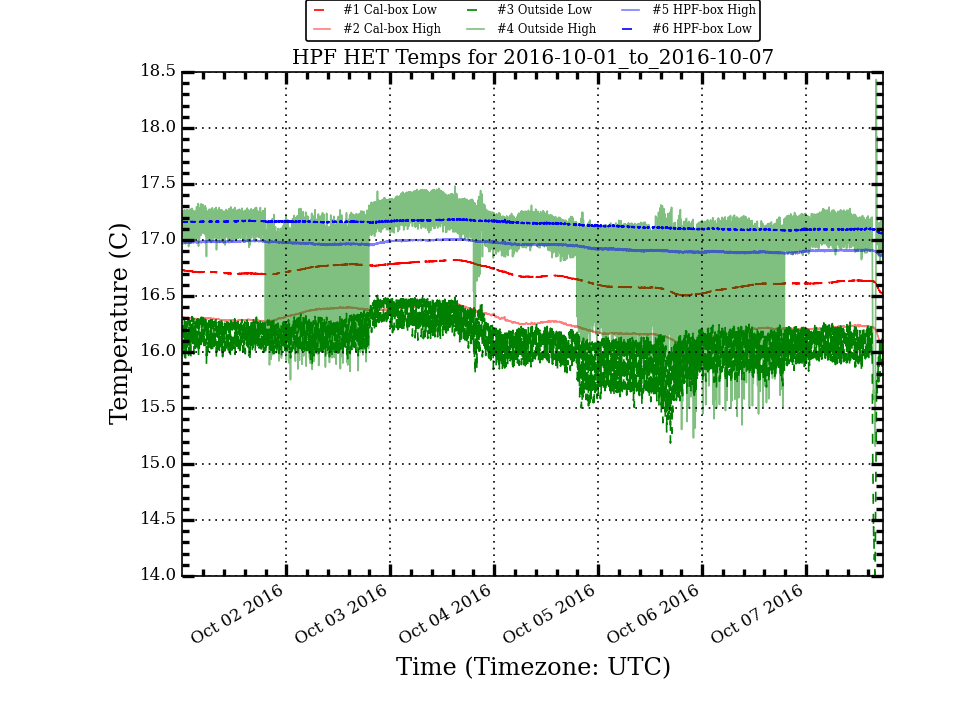
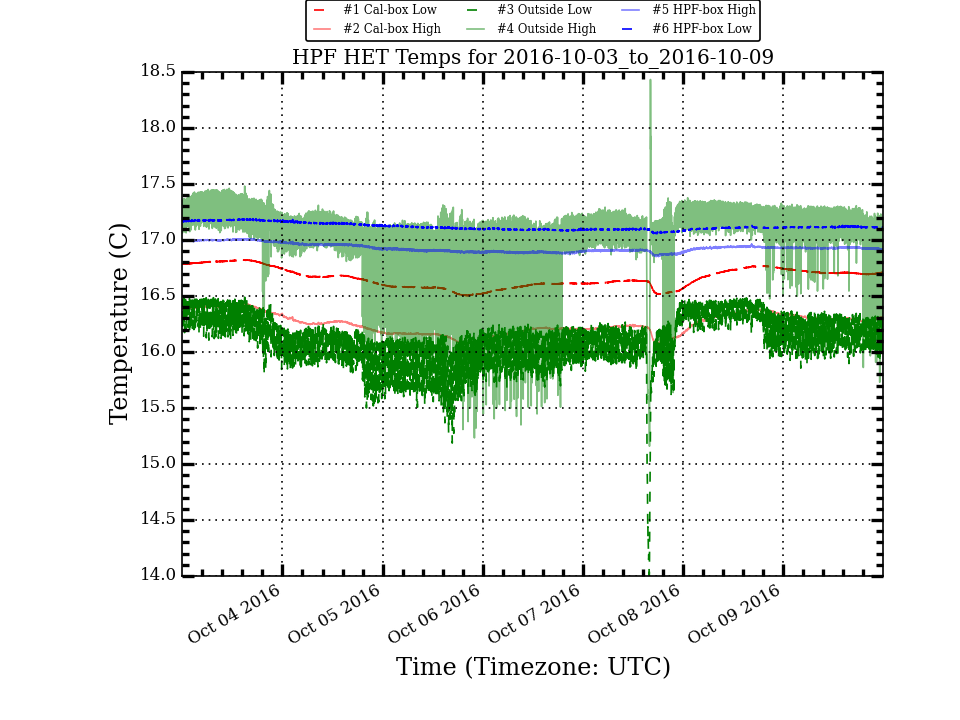
Update HPF Temp Plots

diff --git a/research/hpf_temps/plots/LakeShoreLogTotal_month_stats.html b/research/hpf_temps/plots/LakeShoreLogTotal_month_stats.html
@@ -10,56 +10,56 @@
  </TR>
  <TR>
   <TD>Cal_Low</TD>
-  <TD>16.591</TD>
-  <TD>0.093</TD>
-  <TD>16.567</TD>
+  <TD>16.596</TD>
+  <TD>0.098</TD>
+  <TD>16.568</TD>
   <TD>16.822</TD>
   <TD>16.091</TD>
   <TD>0.731</TD>
  </TR>
  <TR>
   <TD>Cal_High</TD>
-  <TD>16.172</TD>
-  <TD>0.106</TD>
-  <TD>16.149</TD>
+  <TD>16.179</TD>
+  <TD>0.111</TD>
+  <TD>16.151</TD>
   <TD>16.430</TD>
   <TD>15.553</TD>
   <TD>0.877</TD>
  </TR>
  <TR>
   <TD>Out_Low</TD>
-  <TD>15.910</TD>
-  <TD>0.312</TD>
-  <TD>15.916</TD>
+  <TD>15.942</TD>
+  <TD>0.319</TD>
+  <TD>15.953</TD>
   <TD>17.976</TD>
   <TD>12.994</TD>
   <TD>4.982</TD>
  </TR>
  <TR>
   <TD>Out_High</TD>
-  <TD>16.765</TD>
-  <TD>0.540</TD>
-  <TD>16.944</TD>
+  <TD>16.797</TD>
+  <TD>0.532</TD>
+  <TD>16.974</TD>
   <TD>24.550</TD>
   <TD>14.748</TD>
   <TD>9.802</TD>
  </TR>
  <TR>
   <TD>HPF_High</TD>
-  <TD>17.038</TD>
-  <TD>0.100</TD>
-  <TD>17.001</TD>
+  <TD>17.017</TD>
+  <TD>0.091</TD>
+  <TD>16.989</TD>
   <TD>17.291</TD>
   <TD>16.851</TD>
   <TD>0.440</TD>
  </TR>
  <TR>
   <TD>HPF_Low</TD>
-  <TD>17.230</TD>
-  <TD>0.099</TD>
-  <TD>17.192</TD>
-  <TD>17.462</TD>
+  <TD>17.208</TD>
+  <TD>0.089</TD>
+  <TD>17.173</TD>
+  <TD>17.428</TD>
   <TD>17.053</TD>
-  <TD>0.409</TD>
+  <TD>0.375</TD>
  </TR>
 </TABLE>

diff --git a/research/hpf_temps/plots/LakeShoreLogTotal_week_stats.html b/research/hpf_temps/plots/LakeShoreLogTotal_week_stats.html
@@ -10,54 +10,54 @@
  </TR>
  <TR>
   <TD>Cal_Low</TD>
-  <TD>16.674</TD>
-  <TD>0.088</TD>
-  <TD>16.679</TD>
+  <TD>16.663</TD>
+  <TD>0.086</TD>
+  <TD>16.668</TD>
   <TD>16.822</TD>
   <TD>16.503</TD>
   <TD>0.319</TD>
  </TR>
  <TR>
   <TD>Cal_High</TD>
-  <TD>16.266</TD>
-  <TD>0.094</TD>
-  <TD>16.264</TD>
+  <TD>16.255</TD>
+  <TD>0.092</TD>
+  <TD>16.251</TD>
   <TD>16.430</TD>
   <TD>16.069</TD>
   <TD>0.361</TD>
  </TR>
  <TR>
   <TD>Out_Low</TD>
-  <TD>16.084</TD>
-  <TD>0.219</TD>
-  <TD>16.104</TD>
-  <TD>16.507</TD>
+  <TD>16.111</TD>
+  <TD>0.235</TD>
+  <TD>16.124</TD>
+  <TD>16.499</TD>
   <TD>14.006</TD>
-  <TD>2.501</TD>
+  <TD>2.493</TD>
  </TR>
  <TR>
   <TD>Out_High</TD>
-  <TD>16.910</TD>
-  <TD>0.391</TD>
-  <TD>17.039</TD>
+  <TD>16.975</TD>
+  <TD>0.367</TD>
+  <TD>17.088</TD>
   <TD>18.433</TD>
   <TD>15.159</TD>
   <TD>3.274</TD>
  </TR>
  <TR>
   <TD>HPF_High</TD>
-  <TD>16.945</TD>
-  <TD>0.041</TD>
-  <TD>16.959</TD>
+  <TD>16.929</TD>
+  <TD>0.036</TD>
+  <TD>16.926</TD>
   <TD>17.011</TD>
   <TD>16.851</TD>
   <TD>0.160</TD>
  </TR>
  <TR>
   <TD>HPF_Low</TD>
-  <TD>17.137</TD>
-  <TD>0.033</TD>
-  <TD>17.151</TD>
+  <TD>17.120</TD>
+  <TD>0.030</TD>
+  <TD>17.112</TD>
   <TD>17.190</TD>
   <TD>17.053</TD>
   <TD>0.137</TD>
